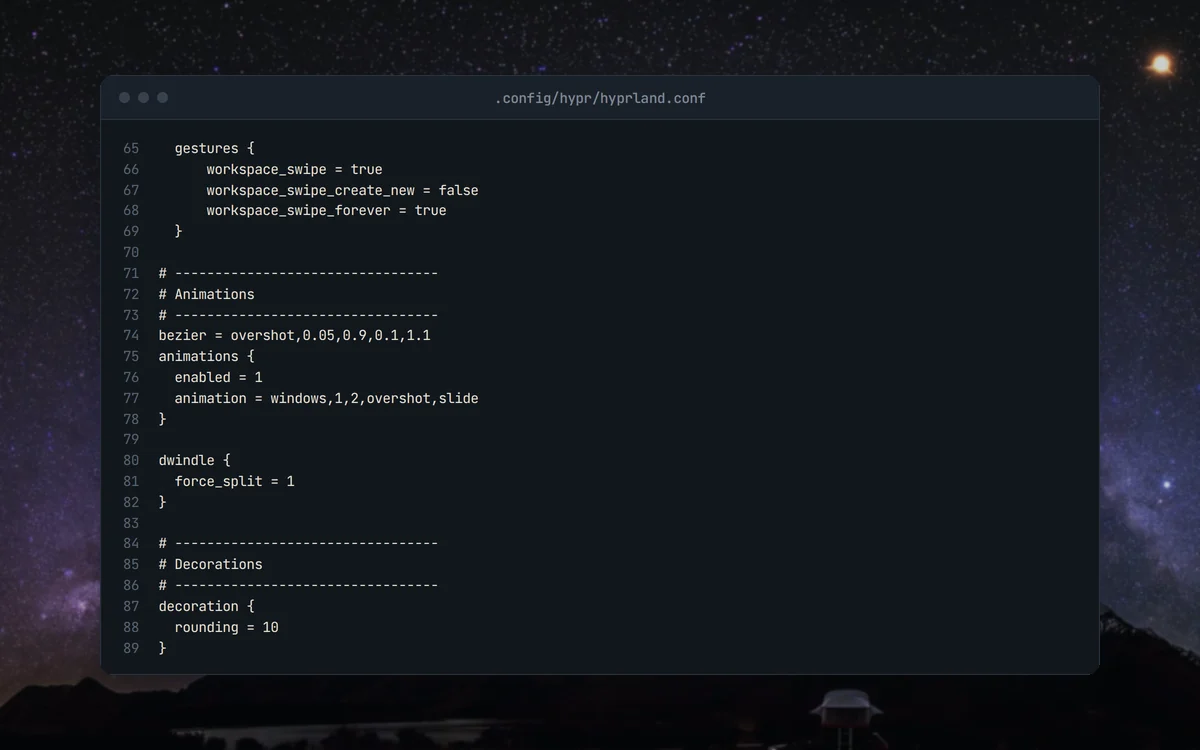
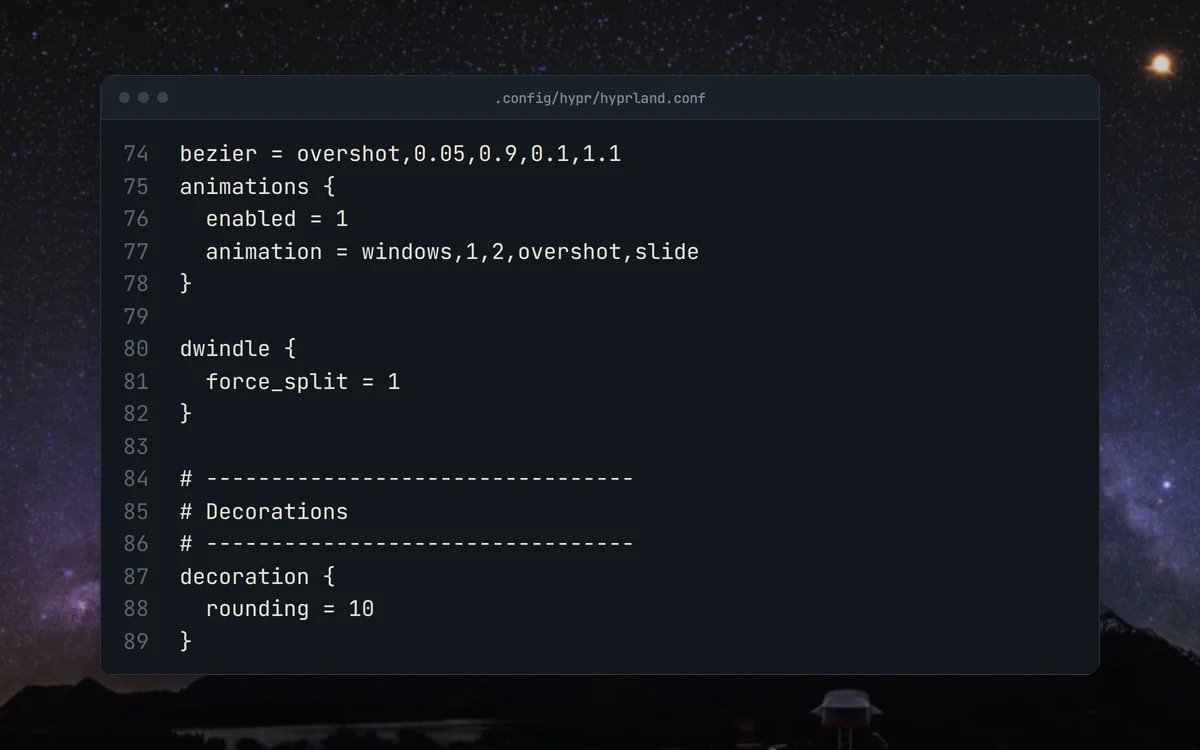
docs(readme): polish the readme visuals

Changed region(s): [[0.0925, 0.184, 0.5858, 0.8587]]

diff --git a/README.md b/README.md
@@ -5,7 +5,7 @@
   </picture>
 </p>
 
-<h1 align="center">A Hyprland desktop built from scratch. Every script and style sheet is here.</h1>
+<h1 align="center">A Hyprland desktop built from scratch.<br>Every script and style sheet is here.</h1>
 
 <p align="center">
   Arch Linux and Hyprland dotfiles, kept as a snapshot from June 2025.<br>
@@ -54,42 +54,42 @@ One repository holds the whole desktop, from the compositor to the bar scripts.
   <tr>
     <td width="50%" valign="top">
       <picture>
-        <source media="(prefers-color-scheme: dark)" srcset="docs/assets/readme/tour/desktop-dark.webp">
-        <img src="docs/assets/readme/tour/desktop-light.webp" alt="Hyprland desktop over a dusk city wallpaper with a Waybar status bar at the bottom">
+        <source media="(prefers-color-scheme: dark)" srcset="docs/assets/readme/tour/sysinfo-dark.webp">
+        <img src="docs/assets/readme/tour/sysinfo-light.webp" alt="Code card of sysinfo.sh reading CPU load, CPU temperature and RAM usage">
       </picture>
-      <h3>The desktop</h3>
-      Hyprland with Waybar along the bottom edge, showing the clock, workspaces, weather, battery and volume.
+      <h3>System info script</h3>
+      CPU load, CPU temperature and RAM usage are read with top, sensors and free for the Waybar module.
     </td>
     <td width="50%" valign="top">
       <picture>
         <source media="(prefers-color-scheme: dark)" srcset="docs/assets/readme/tour/hyprland-dark.webp">
-        <img src="docs/assets/readme/tour/hyprland-light.webp" alt="Code card of hyprland.conf with the gestures, animations, dwindle and decoration blocks">
+        <img src="docs/assets/readme/tour/hyprland-light.webp" alt="Code card of hyprland.conf with the animation, dwindle and decoration blocks">
       </picture>
       <h3>Hyprland config</h3>
-      Workspace swipe gestures, a sliding window animation, the dwindle layout and rounded corners.
+      A sliding window animation, the dwindle layout and rounded corners.
     </td>
   </tr>
   <tr>
     <td width="50%" valign="top">
       <picture>
         <source media="(prefers-color-scheme: dark)" srcset="docs/assets/readme/tour/waybar-dark.webp">
-        <img src="docs/assets/readme/tour/waybar-light.webp" alt="Code card of the Waybar config listing the left, center and right modules">
+        <img src="docs/assets/readme/tour/waybar-light.webp" alt="Code card of the Waybar config with the center and right module lists">
       </picture>
       <h3>Waybar modules</h3>
-      Clock, launcher, media and workspaces on the left, the active window in the center, and weather, battery, volume and tray on the right.
+      The active window sits in the center. The right side lists the tray, weather, battery, volume, system info, screenshot and suspend modules.
     </td>
     <td width="50%" valign="top">
       <picture>
         <source media="(prefers-color-scheme: dark)" srcset="docs/assets/readme/tour/weather-dark.webp">
-        <img src="docs/assets/readme/tour/weather-light.webp" alt="Code card of weather.sh with the live request and the cache fallback">
+        <img src="docs/assets/readme/tour/weather-light.webp" alt="Code card of weather.sh with the cache fallback">
       </picture>
       <h3>Weather script</h3>
-      A request to Open-Meteo with a two-second timeout, and a cached reading as the fallback.
+      When the request returns nothing, the script reads the cached reading, or prints a warning if there is no cache. A good response refreshes the cache.
     </td>
   </tr>
 </table>
 
-<p align="center"><sub>The desktop is a screenshot of the running setup. Code cards show the files as they are in the repository.</sub></p>
+<p align="center"><sub>Code cards show the files as they are in the repository.</sub></p>
 
 ## Features
 
